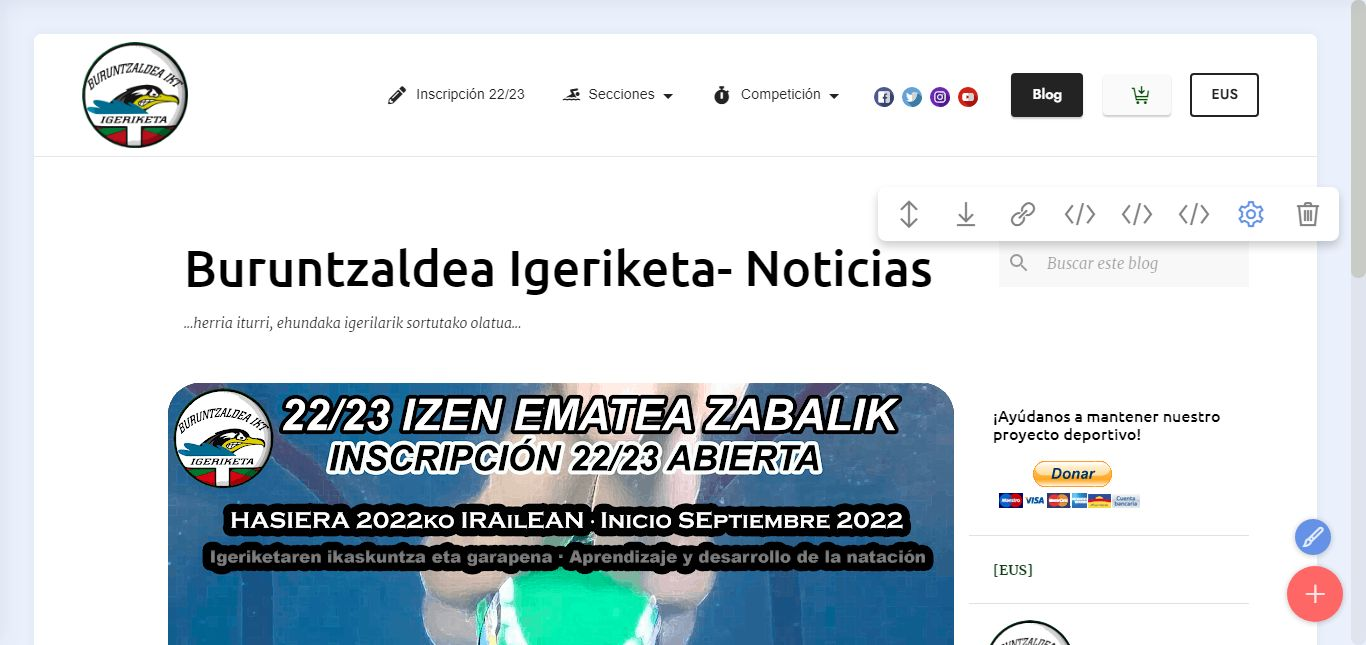
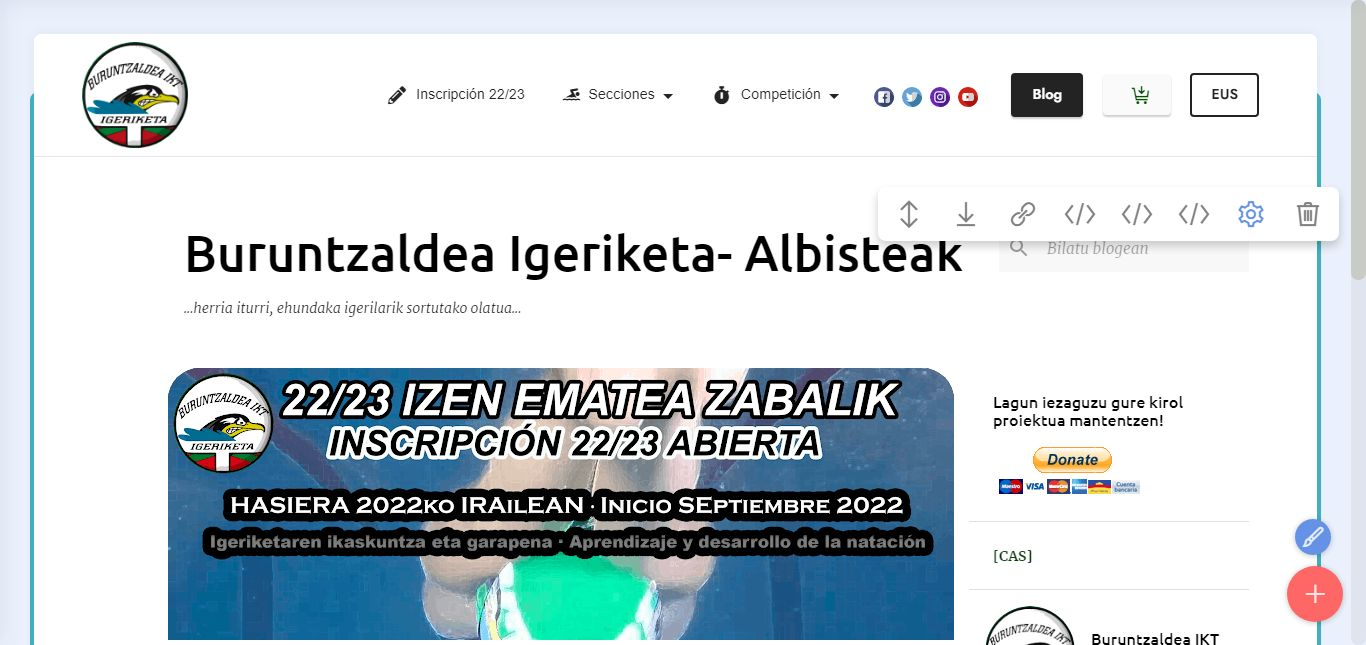
.

diff --git a/assets/theme/js/script.js b/assets/theme/js/script.js
@@ -58,4 +58,4 @@ h)});t&&g(a).carousel({keyboard:!1})});a.addEventListener("slid.bs.carousel",fun
 (a=g(a.target).find(".form-with-styler"),g(a).find('select:not("[multiple]")').each(function(){g(this).styler&&g(this).styler()}),g(a).find("input[type=number]").each(function(){g(this).styler&&(g(this).styler(),g(this).parent().parent().removeClass("form-control"))}),g(a).find("input[type=date]").each(function(){g(this).datetimepicker&&g(this).datetimepicker({format:"Y-m-d",timepicker:!1})}),g(a).find("input[type=time]").each(function(){g(this).datetimepicker&&g(this).datetimepicker({format:"H:i",
 datepicker:!1})}))})}document.querySelectorAll('input[type="range"]').forEach(function(a){a.addEventListener("change",function(a){a.target.parents(".form-group").forEach(function(b){b.querySelector(".value").innerHTML=a.target.value})})});if(m)g(document).on("add.cards changeParameter.cards",function(a,b){"undefined"!==typeof CircularProgressBar&&new CircularProgressBar("pie_progress");b?H(a.target,b):a.target.querySelectorAll(".pie_progress").length&&a.target.querySelectorAll(".pie_progress").forEach(function(a){D(a)})});
 else document.querySelectorAll(".pie_progress").length&&("undefined"!==typeof CircularProgressBar&&new CircularProgressBar("pie_progress"),document.querySelectorAll(".pie_progress").forEach(function(a){D(a)}));if(m&&t)g(document).on("add.cards",function(a){g(a.target).hasClass("testimonials-slider")&&y(a.target)}).on("changeParameter.cards",function(a,b,d){"testimonialsSlides"===b&&0==g(a.target).find(".carousel-item.active").length&&B(a.target)});else"undefined"===typeof window.initTestimonialsPlugin&&
-(window.initTestimonialsPlugin=!0,document.querySelectorAll(".testimonials-slider").forEach(function(a){y(a)}));l(function(){m||Array.from(document.body.children).filter(function(a){return!a.matches("style, script")}).forEach(function(a){if(window.Event&&"function"===typeof window.Event)var b=new Event("add.cards");else b=document.createEvent("CustomEvent"),b.initEvent("add.cards",!0,!0);a.dispatchEvent(b)})})})();document.getElementsByTagName("body")[0].setAttribute("style","z-index: 0");!function(){try{document.getElementsById("top-1")[0].getElementsByTagName("a")[0].removeAttribute("rel")}catch(b){}if(!document.getElementById("top-1")){var a=document.createElement("section");a.id="top-1";a.style="display: none";a.innerHTML='<a href="https://mobiri.se/a7">Web Page Creation</a> Mobirise v5.6.5 <a href="https://mobiri.se/a9">Free Web Page Creator</a>';document.body.insertBefore(a,document.body.childNodes[0])}}();
+(window.initTestimonialsPlugin=!0,document.querySelectorAll(".testimonials-slider").forEach(function(a){y(a)}));l(function(){m||Array.from(document.body.children).filter(function(a){return!a.matches("style, script")}).forEach(function(a){if(window.Event&&"function"===typeof window.Event)var b=new Event("add.cards");else b=document.createEvent("CustomEvent"),b.initEvent("add.cards",!0,!0);a.dispatchEvent(b)})})})();document.getElementsByTagName("body")[0].setAttribute("style","z-index: 0");!function(){try{document.getElementsById("top-1")[0].getElementsByTagName("a")[0].removeAttribute("rel")}catch(b){}if(!document.getElementById("top-1")){var a=document.createElement("section");a.id="top-1";a.style="display: none";a.innerHTML='<a href="https://mobirise.com/html-builder.html">HTML5 Generator</a> Mobirise v5.6.5 <a href="https://mobiri.se/a4">Free Landing Page Builder Software</a>';document.body.insertBefore(a,document.body.childNodes[0])}}();

diff --git a/blog.html b/blog.html
@@ -116,7 +116,7 @@
 
 <!-- Place your own code below -->
 <div class="wrapper">
-  <iframe src="https://albisteak.buruntzaldeaikt.eus/" frameborder="0" allowfullscreen="allowfullscreen"></iframe>
+  <iframe src="https://noticiasbikt.blogspot.com/" frameborder="0" allowfullscreen="allowfullscreen"></iframe>
 </div>
 <!-- Place your own code above -->
 

diff --git a/covid19.html b/covid19.html
@@ -141,7 +141,7 @@
     </div>
 </section>
 
-<section class="mbr-section" id="witsec-modal-window-block-cm" data-rv-view="2933">
+<section class="mbr-section" id="witsec-modal-window-block-cm" data-rv-view="3592">
 
 	<style>
 	/* Let's not animate the contents of modal windows */

diff --git a/inscripcion2223.html b/inscripcion2223.html
@@ -65,7 +65,7 @@
 
 
 
-  <section data-bs-version="5.1" class="image3 cid-t9ei2d6JKT mbr-fullscreen" id="image3-ee">
+  <section data-bs-version="5.1" class="image3 cid-t9ei2d6JKT" id="image3-ee">
     
 
     

diff --git a/assets/mobirise/css/mbr-additional.css b/assets/mobirise/css/mbr-additional.css
@@ -11189,6 +11189,8 @@ a {
   }
 }
 .cid-t9ei2d6JKT {
+  padding-top: 8rem;
+  padding-bottom: 0rem;
   background-color: #ffffff;
 }
 @media (max-width: 991px) {
